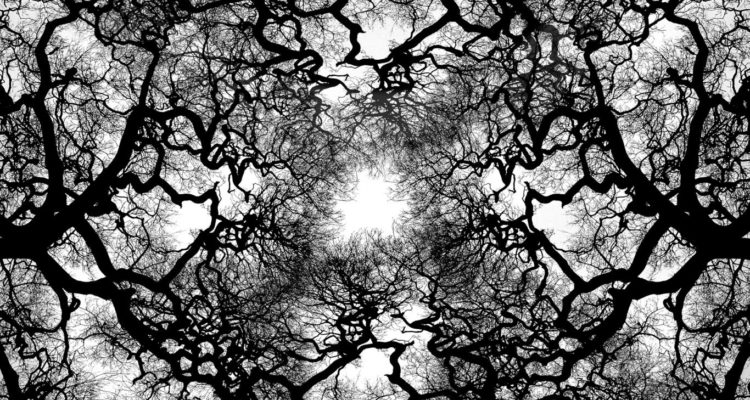
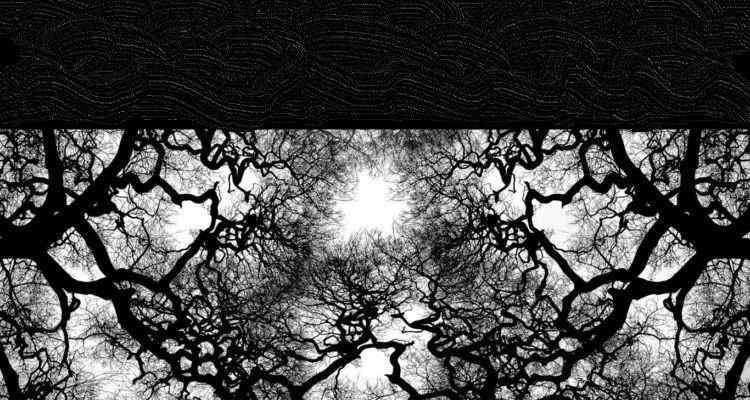
added oil paint effect and contact form

Changed region(s): [[0.0, 0.0, 1.0, 0.33]]

diff --git a/Contact.html b/Contact.html
@@ -18,6 +18,8 @@ Released   : 20140228
     <meta name="keywords" content="" />
     <meta name="description" content="" />
     <link href="http://fonts.googleapis.com/css?family=Didact+Gothic" rel="stylesheet" />
+    <link rel="stylesheet" href="https://maxcdn.bootstrapcdn.com/bootstrap/4.0.0/css/bootstrap.min.css" integrity="sha384-Gn5384xqQ1aoWXA+058RXPxPg6fy4IWvTNh0E263XmFcJlSAwiGgFAW/dAiS6JXm"
+        crossorigin="anonymous">
     <link href="default.css" rel="stylesheet" type="text/css" media="all" />
     <link href="fonts.css" rel="stylesheet" type="text/css" media="all" />
 
@@ -26,11 +28,11 @@ Released   : 20140228
 </head>
 
 <body>
-    <div id="header-wrapper">
+    <div id="contactheader-wrapper">
         <div id="header" class="container">
             <div id="logo">
                 <h1>
-                    <a href="#">J.J. Power Writes</a>
+                    <a href="#">Contact Me</a>
                 </h1>
             </div>
             <div id="menu">
@@ -55,39 +57,89 @@ Released   : 20140228
         </div>
         <div id="banner" class="container">
             <div class="title">
-                <h2>Web Design</h2>
-                <span class="byline">Full-Stack Web Development Tailored to Your Needs </span>
+                <form>
+                    <div class="form-row">
+                        <div class="col">
+                            <input type="text" class="form-control" placeholder="First name">
+                        </div>
+                        <div class="col">
+                            <input type="text" class="form-control" placeholder="Last name">
+                        </div>
+                    </div>
+                    <div class="form-row">
+                        <div class="form-group col-md-6">
+                            <label for="inputEmail4"></label>
+                            <input type="email" class="form-control" id="inputEmail4" placeholder="Email">
+                        </div>
+                        <div class="form-group col-md-6">
+                            <label for="inputPhone4"></label>
+                            <input type="text" class="form-control" id="inputPhone4" placeholder="Phone Number">
+                        </div>
+                    </div>
+                    <div class="form-row">
+                        <div class="form-group col-md-6">
+                            <label for="inputAddress"></label>
+                            <input type="text" class="form-control" id="inputAddress" placeholder="Address">
+                        </div>
+                        <div class="form-group col-md-6">
+                            <label for="inputAddress2"></label>
+                            <input type="text" class="form-control" id="inputAddress2" placeholder="Apartment, studio, or floor">
+                        </div>
+                    </div>
+                    <div class="form-row">
+                        <div class="form-group col-md-6">
+                            <label for="inputCity"></label>
+                            <input type="text" class="form-control" id="inputCity" placeholder="City">
+                        </div>
+                        <div class="form-group col-md-4">
+                            <label for="inputState"></label>
+                            <select id="inputState" class="form-control">
+                                <option selected>Choose...</option>
+                                <option>...</option>
+                            </select>
+                        </div>
+                        <div class="form-group col-md-2">
+                            <label for="inputZip"></label>
+                            <input type="text" class="form-control" id="inputZip" placeholder="Zip">
+                        </div>
+                    </div>
+
+                    <div class="form-group">
+                        <label for="exampleFormControlTextarea1"></label>
+                        <textarea class="form-control" id="exampleFormControlTextarea1" rows="5" placeholder="Please Enter Your Message Here"></textarea>
+                    </div>
+                    <button type="submit" class="btn btn-dark">Sign in</button>
+                </form>
+                <!-- <form>
+                    <div class="form-group">
+                        <div class="form-group">
+                            <form>
+                                <div class="form-row">
+                                    <div class="col">
+                                        <input type="text" class="form-control" placeholder="First name">
+                                    </div>
+                                    <div class="col">
+                                        <input type="text" class="form-control" placeholder="Last name">
+                                    </div>
+                                </div>
+                                <label for="exampleInputEmail1">Email address</label>
+                                <input type="email" class="form-control" id="exampleInputEmail1" aria-describedby="emailHelp" placeholder="Enter email">
+                                <small id="emailHelp" class="form-text text-muted">We'll never share your email with anyone else.</small>
+                        </div>
+                    </div>
+
+                    <button type="submit" class="btn btn-primary">Submit</button>
+                    </form> -->
             </div>
-            <ul class="actions">
+            <!-- <ul class="actions">
                 <li>
                     <a href="#" class="button">Let's Build It Together!</a>
                 </li>
-            </ul>
+            </ul> -->
         </div>
     </div>
-    <div id="wrapper">
-        <div id="three-column" class="container">
-            <div class="title">
-                <h2>Visualise Your Business Presence Online</h2>
-                <span class="byline">Creating is My Passion-Let Me Make Your Vision a Reality!</span>
-            </div>
-            <div class="boxA">
-                <span class="fa fa-cloud-download"></span>
-                <p>Color Schemes (Coming Soon)</p>
-                <a href="#" class="button button-alt">Enter</a>
-            </div>
-            <div class="boxB">
-                <span class="fa fa-cogs"></span>
-                <p>Terms and Services (Coming Soon)</p>
-                <a href="#" class="button button-alt">More Info</a>
-            </div>
-            <div class="boxC">
-                <span class="fa fa-wrench"></span>
-                <p>My Work Process (Coming Soon)</p>
-                <a href="#" class="button button-alt">More Info</a>
-            </div>
-        </div>
-    </div>
+
+    <!--Brand Statement Container-->
     <div id="welcome">
         <div class="container">
             <div class="title">
@@ -99,6 +151,7 @@ Released   : 20140228
                 to create a website that will fulfill your company's needs.
 
             </p>
+            <!--Portfolio Button-->
             <ul class="actions">
                 <li>
                     <a href="#" class="button">Portfolio</a>
@@ -106,6 +159,7 @@ Released   : 20140228
             </ul>
         </div>
     </div>
+    <!--Footer-->
     <div id="copyright" class="container">
         <p>&copy; JJ Power Writes. All rights reserved. | Photos by
             <a href="http://fotogrph.com/">Fotogrph, Public Domain and &copy;J.J.Power Writes</a> | Initial template by

diff --git a/default.css b/default.css
@@ -172,7 +172,7 @@ ul.contact li a.icon-rss:before {
 }
 
 /*********************************************************************************/
-/* 4-column                                                                      */
+/* 4-column                                            */
 /*********************************************************************************/
 
 .box1,
@@ -214,7 +214,7 @@ ul.contact li a.icon-rss:before {
 }
 
 /*********************************************************************************/
-/* 2-column                                                                      */
+/* 2-column                                         */
 /*********************************************************************************/
 
 .tbox1,
@@ -264,28 +264,30 @@ ul.contact li a.icon-rss:before {
 #header-wrapper {
   position: relative;
   padding: 5em 0em 7em 0em;
-  background: #111111 url(images/header-bg.jpg) no-repeat center;
+  background: #111111 url(./assets/images/header-bg.jpg) no-repeat center;
   background-size: cover;
 }
 
 #portheader-wrapper {
   position: relative;
   padding: 5em 0em 7em 0em;
-  background: #111111 url(images/2464-keyboard-black-keys.jpg) no-repeat center;
+  background: #111111 url(./assets/images/2464-keyboard-black-keys.jpg)
+    no-repeat center;
   background-size: cover;
 }
 
 #contactheader-wrapper {
   position: relative;
   padding: 5em 0em 7em 0em;
-  background: #111111 url(images/trees-750x400.jpg) no-repeat center;
+  background: #111111 url(./assets/images/trees-750x400.jpg) no-repeat center;
   background-size: cover;
 }
 
 #aboutheader-wrapper {
   position: relative;
   padding: 5em 0em 7em 0em;
-  background: #111111 url(images/Jacinda_BW_Headshot3.jpg) no-repeat center;
+  background: #111111 url(./assets/images/Jacinda_BW_Headshot2.jpg) no-repeat
+    center;
   background-size: cover;
 }
 
@@ -306,7 +308,12 @@ ul.contact li a.icon-rss:before {
 
 #logo h1 {
   font-size: 2.6em;
-  color: #79c255;
+  color: rgba(255, 255, 255, 1);
+}
+
+#contactlogo h1 {
+  font-size: 2.8em;
+  color: rgba(255, 255, 255, 1);
 }
 
 #logo a {
@@ -320,7 +327,7 @@ ul.contact li a.icon-rss:before {
 
 #menu {
   position: absolute;
-  top: 4.5em;
+  top: 0.9em;
   right: 0;
 }
 
@@ -336,11 +343,11 @@ ul.contact li a.icon-rss:before {
 
 #menu li a,
 #menu li span {
-  padding: 1em 1.5em;
+  padding: 1em 0.8em;
   letter-spacing: 1px;
   text-decoration: none;
   text-transform: uppercase;
-  font-size: 0.8em;
+  font-size: 0.9em;
   color: rgba(255, 255, 255, 0.8);
 }
 
@@ -349,13 +356,13 @@ ul.contact li a.icon-rss:before {
 #menu li.active span {
 }
 
-#menu .active a {
+#menu. active a {
   border: 2px solid rgba(255, 255, 255, 1);
   border-radius: 6px;
   color: rgba(255, 255, 255, 1);
 }
 
-#menu .icon {
+#menu. icon {
 }
 
 /*********************************************************************************/

diff --git a/Portfolio.html b/Portfolio.html
@@ -53,16 +53,7 @@ Released   : 20140228
                 </ul>
             </div>
         </div>
-        <!-- <div id="banner" class="container">
-            <div class="title">
-                <h2>Past Projects</h2>
-                <span class="byline">Completed For University of Arizona Full-Webstack Certificate Program
-            </div> -->
-        <!-- <ul class="actions">
-				<li>
-					<a href="#" class="button">Let's Build It Together!</a>
-				</li>
-			</ul> -->
+        <!--Three Columns-->
     </div>
     </div>
     <div id="wrapper">

diff --git a/About.html b/About.html
@@ -30,7 +30,7 @@ Released   : 20140228
         <div id="header" class="container">
             <div id="logo">
                 <h1>
-                    <a href="#">Who Is J.J. Power?</a>
+                    <a href="#">Who is J.J. Power?</a>
                 </h1>
             </div>
             <!--NavBar-->
